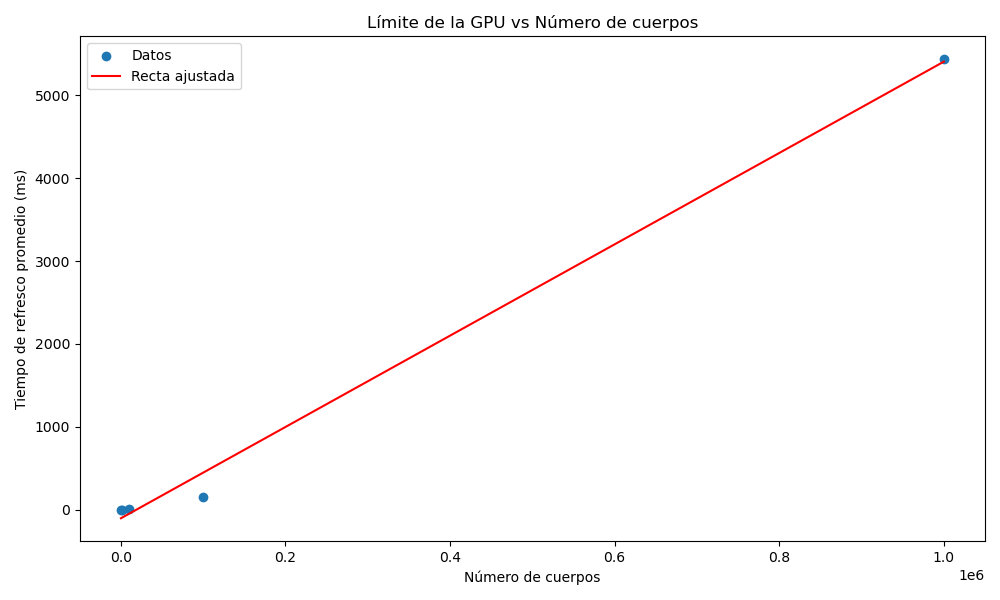
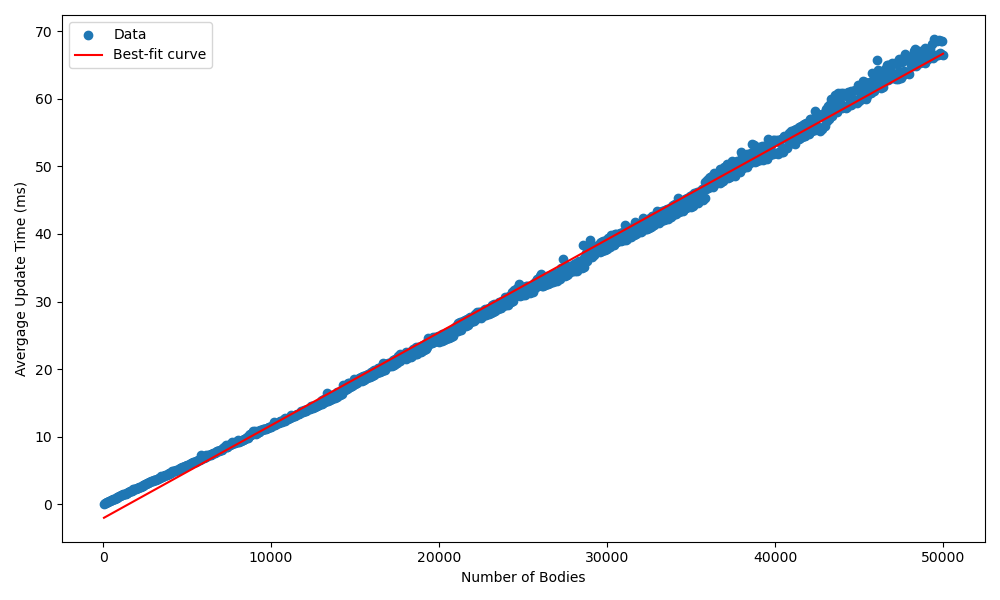
GPU limit experiment

diff --git a/src/GPUlimitExperiment.py b/src/GPUlimitExperiment.py
@@ -27,7 +27,7 @@ class GPULimitExperiment:
 
     def plot_results(self):
         plt.figure(figsize=(10, 6))
-        plt.scatter(self.num_bodies_list, self.refresh_times, label='Datos')
+        plt.scatter(self.num_bodies_list, self.refresh_times, label='Data')
 
         # Ajustar una recta a los datos
         model = LinearRegression()
@@ -35,11 +35,10 @@ class GPULimitExperiment:
         model.fit(x, self.refresh_times)
         y_pred = model.predict(x)
 
-        plt.plot(self.num_bodies_list, y_pred, color='red', label='Recta ajustada')
+        plt.plot(self.num_bodies_list, y_pred, color='red', label='Best-fit curve')
 
-        plt.xlabel('Número de cuerpos')
-        plt.ylabel('Tiempo de refresco promedio (ms)')
-        plt.title('Límite de la GPU vs Número de cuerpos')
+        plt.xlabel('Number of Bodies')
+        plt.ylabel('Avergage Update Time (ms)')
         plt.legend()
         plt.tight_layout()
         plt.savefig("./experiments/GPU_limit.png")
@@ -53,7 +52,7 @@ class GPULimitExperiment:
 
 def main() -> None:
     # Ejemplo de uso
-    num_bodies_list = [100, 1000, 10000, 100000, 100000]
+    num_bodies_list = np.arange(50, 50050, 50)
     simulation_time = 1  # Tiempo de simulación en milisegundos (1 segundo)
 
     experiment = GPULimitExperiment(num_bodies_list, simulation_time)
